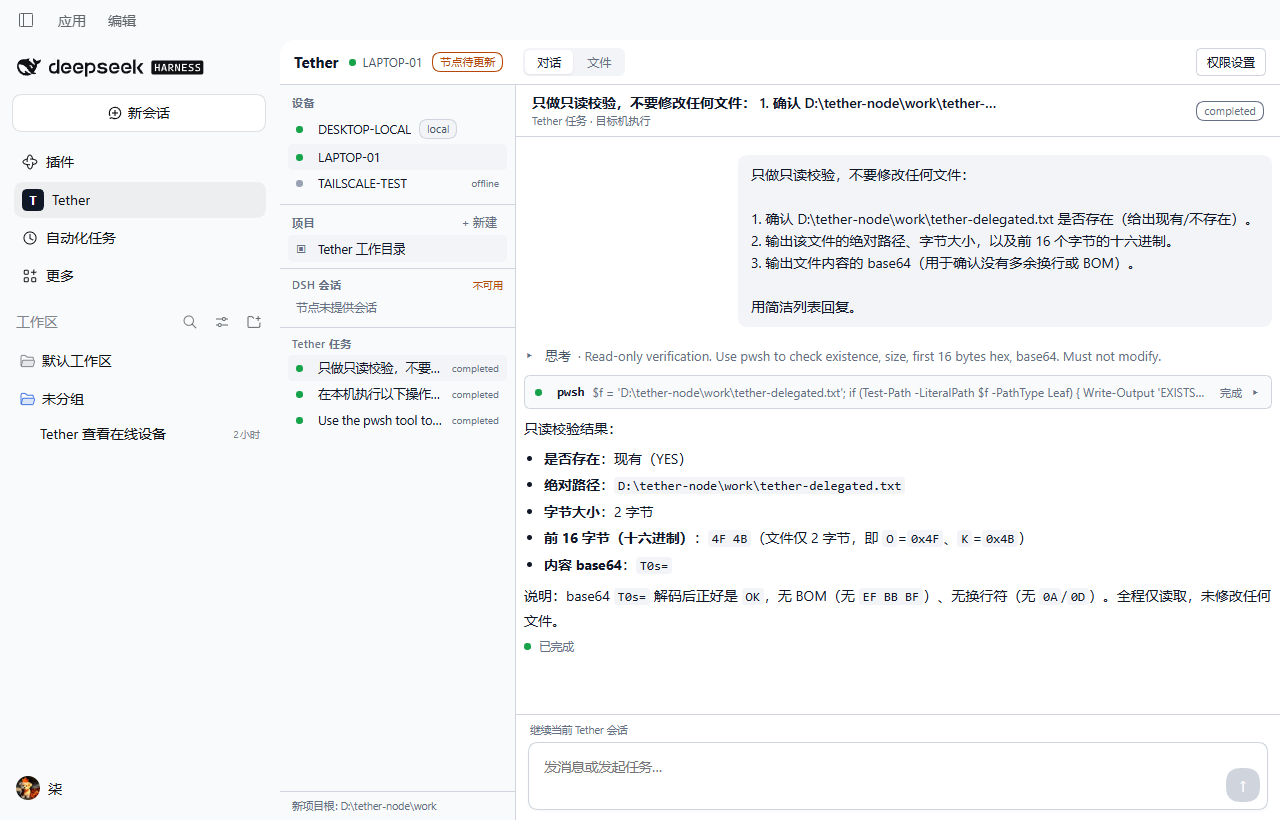
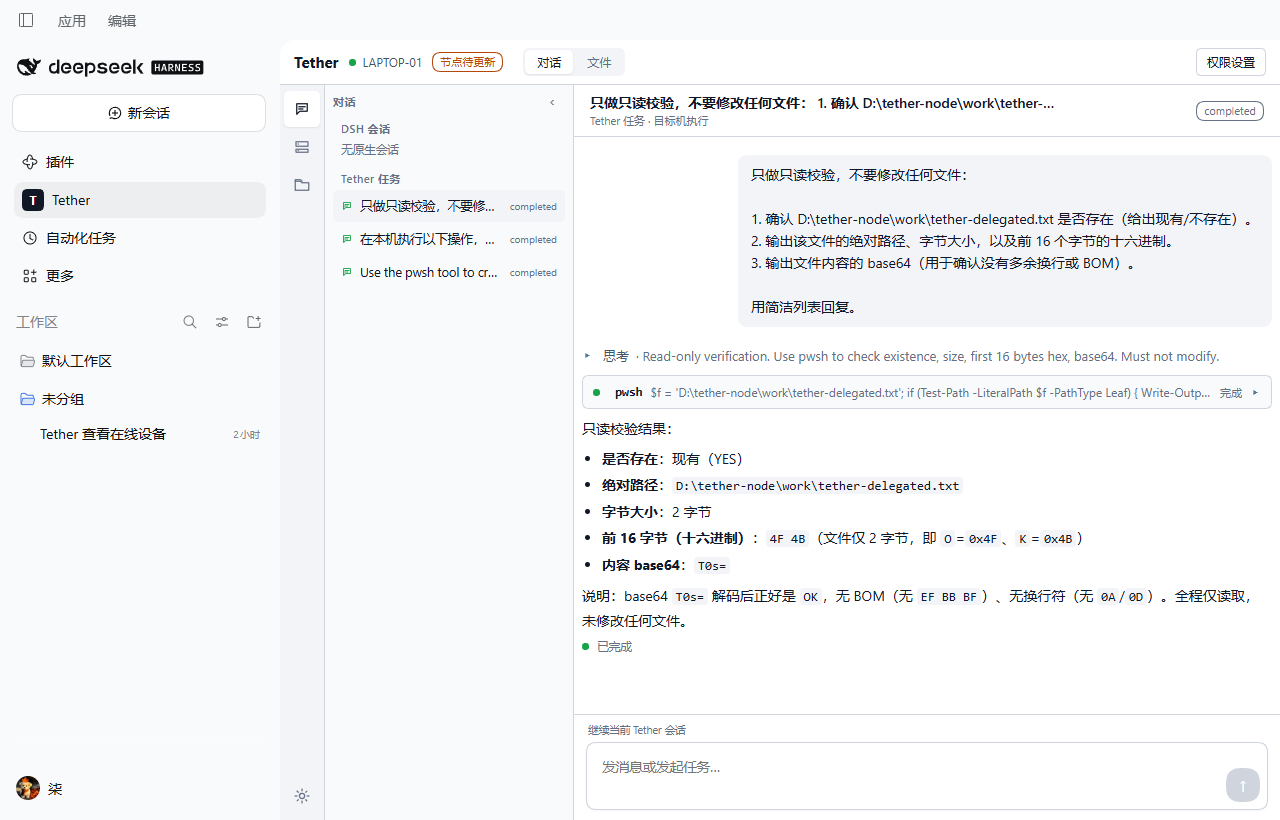
feat: VSCode-style activity bar and resizable sidebar
Split the plugin sidebar into a fixed activity bar with separate conversation,
device and project panels. The active icon and a header chevron collapse the
panel while the bar stays; panel and file-list dividers drag with a double-click
reset. Panel choice, collapse state and both widths persist in localStorage.
Unify sidebar row height, icon/text spacing, radii and group spacing, and hide
scrollbars until hover.

diff --git a/packages/dsh-plugin-tether-client/lib/client.js b/packages/dsh-plugin-tether-client/lib/client.js
@@ -237,7 +237,7 @@ window.__ModuleLoader__.load({
       if (!turns.length) {
         return h('div', { style: { display: 'grid', placeItems: 'center', flex: '1 1 auto', color: C.mute, fontSize: 13, padding: 30 } }, loading ? '加载中…' : emptyText)
       }
-      return h('div', { ref: box, style: { flex: '1 1 auto', overflow: 'auto', padding: '4px 0 24px' } },
+      return h('div', { ref: box, className: 'tether-scroll', style: { flex: '1 1 auto', overflow: 'auto', padding: '4px 0 24px' } },
         h('div', { style: { maxWidth: 780, margin: '0 auto', padding: '0 8px' } },
           turns.map((turn, i) => h(Turn, { key: i, turn, index: i, live }))
         )
@@ -263,6 +263,190 @@ window.__ModuleLoader__.load({
       )
     }
 
+
+    const SCROLL_CSS = `
+      .tether-scroll { scrollbar-width: thin; scrollbar-color: transparent transparent; overscroll-behavior: contain; }
+      .tether-scroll:hover { scrollbar-color: #cbd5e1 transparent; }
+      .tether-scroll::-webkit-scrollbar { width: 6px; height: 6px; }
+      .tether-scroll::-webkit-scrollbar-track { background: transparent; }
+      .tether-scroll::-webkit-scrollbar-thumb { background: transparent; border-radius: 3px; }
+      .tether-scroll:hover::-webkit-scrollbar-thumb { background: #cbd5e1; }
+      .tether-scroll::-webkit-scrollbar-corner { background: transparent; }
+    `
+
+    const UI = {
+      activity: 44,
+      row: 32,
+      pad: 8,
+      radius: 6,
+      radiusCard: 8,
+      icon: 12,
+      font: 12.5,
+      header: 11,
+      gapRow: 1,
+      gapGroup: 10,
+      minSide: 190,
+      maxSide: 380,
+      defaultSide: 248,
+      minFiles: 170,
+      maxFiles: 360,
+      defaultFiles: 240
+    }
+
+    function clamp(value, min, max) {
+      return Math.max(min, Math.min(max, value))
+    }
+
+    function usePersisted(key, initial) {
+      const [value, setValue] = React.useState(() => {
+        try {
+          const raw = window.localStorage.getItem(key)
+          return raw === null ? initial : JSON.parse(raw)
+        } catch (_) { return initial }
+      })
+      React.useEffect(() => {
+        try { window.localStorage.setItem(key, JSON.stringify(value)) } catch (_) { /* private mode */ }
+      }, [key, value])
+      return [value, setValue]
+    }
+
+    const GLYPHS = {
+      chat: ['M5 5h14v10H9l-4 4V5z', 'M8 9h8', 'M8 12h5'],
+      devices: ['M4 5h16v6H4z', 'M4 15h16v4H4z', 'M7 8h.01', 'M7 17h.01'],
+      projects: ['M3 7h7l2 2h9v10H3z', 'M3 7V5h7l2 2'],
+      settings: ['M12 15.5a3.5 3.5 0 100-7 3.5 3.5 0 000 7z', 'M12 3v2', 'M12 19v2', 'M3 12h2', 'M19 12h2', 'M5.6 5.6L7 7', 'M17 17l1.4 1.4', 'M18.4 5.6L17 7', 'M7 17l-1.4 1.4'],
+      plus: ['M12 5v14', 'M5 12h14'],
+      file: ['M6 3h8l4 4v14H6z', 'M14 3v4h4']
+    }
+
+    function Glyph({ name, size = 18, stroke = 1.7 }) {
+      return h('svg', {
+        width: size, height: size, viewBox: '0 0 24 24', fill: 'none', stroke: 'currentColor',
+        strokeWidth: stroke, strokeLinecap: 'round', strokeLinejoin: 'round', 'aria-hidden': true
+      }, (GLYPHS[name] || []).map((d, i) => h('path', { key: i, d })))
+    }
+
+    function ActivityBar({ active, collapsed, onSelect, onSettings, settingsOpen }) {
+      const items = [
+        { id: 'conversations', label: '对话', icon: 'chat' },
+        { id: 'devices', label: '设备', icon: 'devices' },
+        { id: 'projects', label: '项目', icon: 'projects' }
+      ]
+      const button = (id, label, icon, onClick, selected) => h('button', {
+        key: id, title: label, 'aria-label': label, onClick,
+        style: {
+          width: 36, height: 36, display: 'grid', placeItems: 'center', border: 0,
+          borderRadius: UI.radius, cursor: 'pointer', position: 'relative',
+          background: selected ? '#fff' : 'transparent', color: selected ? C.ink : C.mute,
+          boxShadow: selected ? '0 1px 2px rgba(16,24,40,0.08)' : 'none'
+        }
+      }, h(Glyph, { name: icon, size: 18 }))
+      return h('nav', {
+        'aria-label': 'Tether 面板',
+        style: { width: UI.activity, flex: '0 0 auto', borderRight: '1px solid ' + C.line, background: C.soft, display: 'flex', flexDirection: 'column', alignItems: 'center', padding: '6px 0', gap: 2 }
+      },
+        items.map((item) => button(item.id, item.label, item.icon, () => onSelect(item.id), active === item.id)),
+        h('div', { style: { marginTop: 'auto' } }, button('settings', '文件权限', 'settings', onSettings, settingsOpen))
+      )
+    }
+
+    function SidePanelHeader({ title, action, onCollapse }) {
+      return h('div', { style: { display: 'flex', alignItems: 'center', height: UI.row, flex: '0 0 auto', padding: '0 ' + UI.pad + 'px', gap: 2 } },
+        h('span', { style: { fontSize: UI.header, fontWeight: 600, color: C.mute, letterSpacing: 0.4 } }, title),
+        h('span', { style: { marginLeft: 'auto', display: 'flex', alignItems: 'center', gap: 2 } },
+          action,
+          h('button', {
+            title: '收起侧栏', 'aria-label': '收起侧栏', onClick: onCollapse,
+            style: { width: 26, height: 26, display: 'grid', placeItems: 'center', border: 0, borderRadius: UI.radius, background: 'transparent', color: C.mute, cursor: 'pointer', fontSize: 16, lineHeight: 1 }
+          }, '‹')
+        )
+      )
+    }
+
+    function SideRow({ selected, title, hint, icon, iconColor, onClick, right }) {
+      return h('div', {
+        role: 'button', tabIndex: 0, title, onClick,
+        onKeyDown: (ev) => { if (ev.key === 'Enter' || ev.key === ' ') { ev.preventDefault(); onClick() } },
+        style: {
+          display: 'flex', alignItems: 'center', gap: 7, minHeight: UI.row, boxSizing: 'border-box',
+          padding: '5px ' + UI.pad + 'px', borderRadius: UI.radius, cursor: 'pointer', minWidth: 0, width: '100%', boxSizing: 'border-box',
+          background: selected ? C.soft : 'transparent', fontSize: UI.font, color: C.ink
+        }
+      },
+        icon ? h('span', { style: { width: UI.icon, height: UI.icon, display: 'grid', placeItems: 'center', color: iconColor || C.mute, flex: '0 0 auto' } }, typeof icon === 'string' ? h(Glyph, { name: icon, size: UI.icon, stroke: 1.8 }) : icon) : null,
+        h('span', { style: { minWidth: 0, flex: '1 1 auto', overflow: 'hidden', textOverflow: 'ellipsis', whiteSpace: 'nowrap', lineHeight: '18px' } }, title),
+        right ? h('span', { style: { flex: '0 0 auto', fontSize: 10, color: C.mute, whiteSpace: 'nowrap' } }, right) : null,
+        hint ? h('span', { style: { flex: '0 0 auto', fontSize: 9.5, color: C.mute, border: '1px solid ' + C.line, borderRadius: 999, padding: '0 5px', lineHeight: '15px' } }, hint) : null
+      )
+    }
+
+    function SidePanel(props) {
+      const {
+        panel, width, hidden, onResizeStart, onResetWidth, onCollapse, devices, localDevice, deviceId, onSelectDevice,
+        projects, project, onSelectProject, onNewProject, newProjectDisabled,
+        nativeSessions, runs, sessionId, runId, onSelectSession, onSelectRun
+      } = props
+      const title = panel === 'devices' ? '设备' : (panel === 'projects' ? '项目' : '对话')
+      const action = panel === 'projects' ? h('button', {
+        title: newProjectDisabled ? '当前节点不支持新建项目' : '新建项目', 'aria-label': '新建项目',
+        onClick: onNewProject, disabled: newProjectDisabled,
+        style: { width: 26, height: 26, display: 'grid', placeItems: 'center', border: 0, borderRadius: UI.radius, background: 'transparent', color: newProjectDisabled ? C.line : C.mute, cursor: newProjectDisabled ? 'not-allowed' : 'pointer' }
+      }, h(Glyph, { name: 'plus', size: 14 })) : null
+
+      const section = (id, content) => h('div', {
+        className: 'tether-scroll',
+        style: { display: panel === id ? 'block' : 'none', flex: '1 1 auto', minHeight: 0, overflowY: 'auto', padding: '2px ' + UI.pad + 'px ' + UI.pad + 'px' }
+      }, content)
+
+      const deviceRows = devices.map((d) => h(SideRow, {
+        key: d.device_id, selected: d.device_id === deviceId, title: d.name || d.device_id,
+        onClick: () => onSelectDevice(d.device_id),
+        icon: 'devices', iconColor: d.online ? C.green : C.mute,
+        hint: d.device_id === localDevice ? 'local' : null,
+        right: d.online ? null : 'offline'
+      }))
+      const projectRows = ((projects && projects.workspaces) || []).map((w) => h(SideRow, {
+        key: w.path, selected: project && project.path === w.path, title: w.name, onClick: () => onSelectProject(w),
+        icon: w.kind === 'dsh' ? 'projects' : 'devices', iconColor: C.mute
+      }))
+      const nativeRows = nativeSessions.map((s) => h(SideRow, {
+        key: s.session_id, selected: s.session_id === sessionId, title: s.title || s.session_id,
+        onClick: () => onSelectSession(s.session_id),
+        icon: 'chat', iconColor: s.status === 'running' ? C.blue : C.green,
+        right: s.status === 'running' ? '运行中' : timeText((s.updated_at || 0) * 1000)
+      }))
+      const runRows = runs.map((r) => h(SideRow, {
+        key: r.run_id, selected: r.run_id === runId, title: shortText(r.prompt, 42),
+        onClick: () => onSelectRun(r.run_id),
+        icon: 'chat', iconColor: r.state === 'completed' ? C.green : (['failed', 'unknown'].includes(r.state) ? C.red : C.blue),
+        right: r.state
+      }))
+      const groupLabel = (text, first) => h('div', {
+        style: { fontSize: UI.header, fontWeight: 600, color: C.mute, letterSpacing: 0.4, margin: (first ? 2 : UI.gapGroup) + 'px ' + UI.pad + 'px 4px' }
+      }, text)
+
+      return h('aside', {
+        'aria-label': title,
+        style: { display: hidden ? 'none' : 'flex', width, flex: '0 0 auto', minHeight: 0, borderRight: '1px solid ' + C.line, background: C.panel, flexDirection: 'column', position: 'relative' }
+      },
+        h(SidePanelHeader, { title, action, onCollapse }),
+        h('div', { style: { flex: '1 1 auto', minHeight: 0, overflow: 'hidden', display: 'flex', flexDirection: 'column' } },
+          section('devices', h('div', { style: { display: 'grid', gap: UI.gapRow } }, deviceRows, !deviceRows.length ? h('div', { style: { color: C.mute, fontSize: 11.5, padding: '6px ' + UI.pad + 'px' } }, '暂无设备') : null)),
+          section('projects', h('div', { style: { display: 'grid', gap: UI.gapRow } }, projectRows, !projectRows.length ? h('div', { style: { color: C.mute, fontSize: 11.5, padding: '6px ' + UI.pad + 'px' } }, '暂无项目') : null)),
+          section('conversations', h('div', null,
+            groupLabel('DSH 会话', true),
+            h('div', { style: { display: 'grid', gap: UI.gapRow } }, nativeRows, !nativeRows.length ? h('div', { style: { color: C.mute, fontSize: 11.5, padding: '2px ' + UI.pad + 'px 4px' } }, '无原生会话') : null),
+            groupLabel('Tether 任务', false),
+            h('div', { style: { display: 'grid', gap: UI.gapRow } }, runRows, !runRows.length ? h('div', { style: { color: C.mute, fontSize: 11.5, padding: '2px ' + UI.pad + 'px 4px' } }, '无任务') : null)
+          ))
+        ),
+        h('div', {
+          onPointerDown: onResizeStart, onDoubleClick: onResetWidth, title: '拖动调整宽度，双击复位',
+          style: { position: 'absolute', top: 0, right: -3, width: 6, height: '100%', cursor: 'col-resize', zIndex: 2 }
+        })
+      )
+    }
+
     function App() {
       const [state, setState] = React.useState(null)
       const stateRef = React.useRef(null)
@@ -270,7 +454,11 @@ window.__ModuleLoader__.load({
       const [deviceId, setDeviceId] = React.useState('')
       const [projects, setProjects] = React.useState(null)
       const [project, setProject] = React.useState(null)
-      const [view, setView] = React.useState('chat')
+      const [view, setView] = usePersisted('tether.ui.view', 'chat')
+      const [activePanel, setActivePanel] = usePersisted('tether.ui.panel', 'conversations')
+      const [sidebarCollapsed, setSidebarCollapsed] = usePersisted('tether.ui.panelCollapsed', false)
+      const [sidebarWidth, setSidebarWidth] = usePersisted('tether.ui.panelWidth', UI.defaultSide)
+      const [fileListWidth, setFileListWidth] = usePersisted('tether.ui.fileListWidth', UI.defaultFiles)
       const [notice, setNotice] = React.useState('')
       const [busy, setBusy] = React.useState(false)
       const [native, setNative] = React.useState([])
@@ -321,6 +509,8 @@ window.__ModuleLoader__.load({
 
       const device = state && state.devices.find((d) => d.device_id === deviceId)
       const deviceOnline = !!(device && device.online)
+      const safeSidebarWidth = clamp(sidebarWidth, UI.minSide, UI.maxSide)
+      const safeFileListWidth = clamp(fileListWidth, UI.minFiles, UI.maxFiles)
 
       React.useEffect(() => {
         if (!deviceId) { setPolicy(null); return }
@@ -579,10 +769,37 @@ window.__ModuleLoader__.load({
         const cb = ask.onOk; setAsk(null); cb(value)
       }
 
+      const selectPanel = (id) => {
+        if (id === activePanel && !sidebarCollapsed) setSidebarCollapsed(true)
+        else { setActivePanel(id); setSidebarCollapsed(false) }
+      }
+
+      const dragWidth = (event, start, setter, min, max) => {
+        event.preventDefault()
+        const startX = event.clientX
+        const move = (ev) => setter(clamp(start + ev.clientX - startX, min, max))
+        const stop = () => {
+          window.removeEventListener('pointermove', move)
+          window.removeEventListener('pointerup', stop)
+          window.removeEventListener('pointercancel', stop)
+          document.body.style.cursor = ''
+          document.body.style.userSelect = ''
+        }
+        document.body.style.cursor = 'col-resize'
+        document.body.style.userSelect = 'none'
+        window.addEventListener('pointermove', move)
+        window.addEventListener('pointerup', stop)
+        window.addEventListener('pointercancel', stop)
+      }
+
+      const startSidebarResize = (event) => dragWidth(event, safeSidebarWidth, setSidebarWidth, UI.minSide, UI.maxSide)
+      const startFileResize = (event) => dragWidth(event, safeFileListWidth, setFileListWidth, UI.minFiles, UI.maxFiles)
+
       const rowStyle = (active) => ({ display: 'flex', alignItems: 'center', gap: 8, padding: '5px 8px', borderRadius: 6, cursor: 'pointer', background: active ? C.soft : 'transparent', fontSize: 12.5 })
       const modelText = sessionId && sessionData ? [sessionData.model, sessionData.agent_preset].filter(Boolean).join(' · ') : ''
 
       return h('div', { style: { position: 'relative', height: '100%', display: 'flex', flexDirection: 'column', background: C.bg, color: C.ink, fontSize: 13, overflow: 'hidden' } },
+        h('style', null, SCROLL_CSS),
         h('div', { style: { display: 'flex', alignItems: 'center', gap: 10, padding: '8px 14px', borderBottom: '1px solid ' + C.line, flex: '0 0 auto' } },
           h('strong', { style: { fontSize: 15 } }, 'Tether'),
           device ? h('span', { style: { display: 'flex', alignItems: 'center', fontSize: 12, color: C.sub } }, dot(device.online), device.name) : h('span', { style: { color: C.mute } }, 'no device'),
@@ -598,52 +815,36 @@ window.__ModuleLoader__.load({
         ),
         notice ? h('div', { style: { padding: '6px 14px', background: /^Saved |^Policy updated/.test(notice) ? '#ecfdf3' : '#fef3f2', color: /^Saved |^Policy updated/.test(notice) ? '#067647' : C.red, borderBottom: '1px solid ' + (/^Saved |^Policy updated/.test(notice) ? '#abefc6' : '#fecdca'), fontSize: 12 } }, notice) : null,
         h('div', { style: { display: 'flex', flex: '1 1 auto', minHeight: 0 } },
-          h('aside', { style: { width: 235, flex: '0 0 auto', borderRight: '1px solid ' + C.line, display: 'flex', flexDirection: 'column', minHeight: 0, background: C.panel } },
-            h('div', { style: { padding: '10px 12px 4px', fontSize: 11, fontWeight: 600, color: C.mute, letterSpacing: 0.4 } }, '设备'),
-            h('div', { style: { padding: '0 8px 8px', overflow: 'auto', maxHeight: 150 } },
-              ((state && state.devices) || []).map((d) => h('div', { key: d.device_id, onClick: () => setDeviceId(d.device_id), style: rowStyle(d.device_id === deviceId) },
-                dot(d.online), h('span', { style: { overflow: 'hidden', textOverflow: 'ellipsis', whiteSpace: 'nowrap' } }, d.name || d.device_id),
-                d.device_id === (state && state.local_device) ? pill('local') : null,
-                d.online ? null : h('span', { style: { marginLeft: 'auto', fontSize: 10, color: C.mute } }, 'offline')
-              ))
-            ),
-            h('div', { style: { padding: '8px 12px 4px', display: 'flex', alignItems: 'center', gap: 6, borderTop: '1px solid ' + C.line } },
-              h('span', { style: { fontSize: 11, fontWeight: 600, color: C.mute, letterSpacing: 0.4 } }, '项目'),
-              h('button', { onClick: newProject, disabled: projects && projects.synthetic, style: { marginLeft: 'auto', border: 0, background: 'transparent', color: projects && projects.synthetic ? C.mute : C.blue, cursor: projects && projects.synthetic ? 'not-allowed' : 'pointer', fontSize: 12 } }, '+ 新建')
-            ),
-            h('div', { style: { padding: '0 8px 6px', overflow: 'auto', maxHeight: 150 } },
-              ((projects && projects.workspaces) || []).map((w) => h('div', { key: w.path, onClick: () => { setProject(w); setView('chat') }, style: rowStyle(project && project.path === w.path) },
-                h('span', { style: { width: 14, color: C.mute, fontSize: 12 } }, w.kind === 'dsh' ? '◈' : '▣'),
-                h('span', { style: { overflow: 'hidden', textOverflow: 'ellipsis', whiteSpace: 'nowrap' } }, w.name)
-              )),
-              (!projects || !projects.workspaces.length) ? h('div', { style: { color: C.mute, fontSize: 12, padding: '6px 8px' } }, '暂无项目') : null
-            ),
-            h('div', { style: { borderTop: '1px solid ' + C.line, padding: '8px 12px 4px', display: 'flex', alignItems: 'center' } },
-              h('span', { style: { fontSize: 11, fontWeight: 600, color: C.mute, letterSpacing: 0.4 } }, 'DSH 会话'),
-              nativeError ? h('span', { style: { marginLeft: 'auto', fontSize: 10, color: C.amber } }, '不可用') : null
-            ),
-            h('div', { style: { padding: '0 8px 8px', overflow: 'auto', maxHeight: 190 } },
-              nativeForProject.map((s) => h('div', { key: s.session_id, onClick: () => { setSessionId(s.session_id); setRunId(''); setView('chat') }, style: rowStyle(s.session_id === sessionId) },
-                dot(false, s.status === 'running' ? C.blue : C.green),
-                h('span', { style: { overflow: 'hidden', textOverflow: 'ellipsis', whiteSpace: 'nowrap', flex: '1 1 auto' } }, s.title || s.session_id),
-                s.status === 'running' ? pill('running', C.blue) : null
-              )),
-              !nativeForProject.length ? h('div', { style: { color: C.mute, fontSize: 11.5, padding: '4px 8px' } }, nativeError ? '节点未提供会话' : '此项目暂无原生会话') : null
-            ),
-            h('div', { style: { borderTop: '1px solid ' + C.line, padding: '8px 12px 4px', display: 'flex', alignItems: 'center' } },
-              h('span', { style: { fontSize: 11, fontWeight: 600, color: C.mute, letterSpacing: 0.4 } }, 'Tether 任务')
-            ),
-            h('div', { style: { padding: '0 8px 10px', overflow: 'auto', flex: '1 1 auto' } },
-              runs.map((r) => h('div', { key: r.run_id, onClick: () => { setRunId(r.run_id); setSessionId(''); setView('chat') }, style: rowStyle(r.run_id === runId) },
-                dot(false, r.state === 'completed' ? C.green : (['failed', 'unknown'].includes(r.state) ? C.red : C.blue)),
-                h('span', { style: { overflow: 'hidden', textOverflow: 'ellipsis', whiteSpace: 'nowrap', flex: '1 1 auto' } }, shortText(r.prompt, 38)),
-                h('span', { style: { fontSize: 10, color: C.mute } }, r.state)
-              )),
-              !runs.length ? h('div', { style: { color: C.mute, fontSize: 11.5, padding: '4px 8px' } }, '还没有任务') : null
-            ),
-            h('div', { style: { borderTop: '1px solid ' + C.line, padding: '7px 12px', fontSize: 10.5, color: C.mute } },
-              projects ? ('新项目根: ' + projects.root) : ' ')
-          ),
+          h(ActivityBar, {
+            active: activePanel,
+            collapsed: sidebarCollapsed,
+            onSelect: selectPanel,
+            onSettings: openSettings,
+            settingsOpen: showSettings
+          }),
+          h(SidePanel, {
+            panel: activePanel,
+            width: safeSidebarWidth,
+            hidden: sidebarCollapsed,
+            onResizeStart: startSidebarResize,
+            onResetWidth: () => setSidebarWidth(UI.defaultSide),
+            onCollapse: () => setSidebarCollapsed(true),
+            devices: (state && state.devices) || [],
+            localDevice: state && state.local_device,
+            deviceId,
+            onSelectDevice: setDeviceId,
+            projects,
+            project,
+            onSelectProject: (w) => { setProject(w); setView('chat') },
+            onNewProject: newProject,
+            newProjectDisabled: !deviceOnline || !projects || !!projects.synthetic,
+            nativeSessions: nativeForProject,
+            runs,
+            sessionId,
+            runId,
+            onSelectSession: (id) => { setSessionId(id); setRunId(''); setView('chat') },
+            onSelectRun: (id) => { setRunId(id); setSessionId(''); setView('chat') }
+          }),
           h('main', { style: { flex: '1 1 auto', display: 'flex', flexDirection: 'column', minWidth: 0, minHeight: 0 } },
             view === 'chat' ? h('div', { style: { display: 'flex', flexDirection: 'column', flex: '1 1 auto', minHeight: 0 } },
               h('div', { style: { display: 'flex', alignItems: 'center', gap: 8, padding: '8px 16px', borderBottom: '1px solid ' + C.line, flex: '0 0 auto' } },
@@ -683,7 +884,7 @@ window.__ModuleLoader__.load({
                 )
               ),
               h('div', { style: { display: 'flex', flex: '1 1 auto', minHeight: 0 } },
-                h('div', { style: { width: 240, flex: '0 0 auto', borderRight: '1px solid ' + C.line, overflow: 'auto', background: C.bg } },
+                h('div', { className: 'tether-scroll', style: { width: safeFileListWidth, flex: '0 0 auto', borderRight: '1px solid ' + C.line, overflow: 'auto', background: C.bg } },
                   listing ? h('div', null,
                     listing.entries.map((entry) => h('div', { key: entry.path, onClick: () => setSelected(entry), onDoubleClick: () => openFile(entry), style: { ...rowStyle(selected && selected.path === entry.path), padding: '5px 10px', borderRadius: 0 } },
                       h('span', { style: { width: 16, color: C.mute, fontSize: 12 } }, entry.dir ? '▸' : '·'),
@@ -693,6 +894,11 @@ window.__ModuleLoader__.load({
                     !listing.entries.length ? h('div', { style: { padding: 16, color: C.mute, fontSize: 12 } }, '空目录') : null
                   ) : h('div', { style: { padding: 16, color: C.mute, fontSize: 12 } }, path ? (busy ? '加载中…' : '无法读取') : '选择项目')
                 ),
+                h('div', {
+                  onPointerDown: startFileResize, onDoubleClick: () => setFileListWidth(UI.defaultFiles),
+                  title: '拖动调整文件栏宽度，双击复位',
+                  style: { width: 5, flex: '0 0 auto', cursor: 'col-resize', background: 'transparent' }
+                }),
                 h('div', { style: { flex: '1 1 auto', minWidth: 0, display: 'flex', flexDirection: 'column' } },
                   file ? h('div', { style: { flex: '1 1 auto', minHeight: 0, display: 'flex', flexDirection: 'column' } },
                     h('div', { style: { display: 'flex', alignItems: 'center', gap: 8, padding: '6px 10px', borderBottom: '1px solid ' + C.line, flex: '0 0 auto' } },

diff --git a/REVIEWER_GUIDE.md b/REVIEWER_GUIDE.md
@@ -32,6 +32,7 @@ This file is for an AI or human reviewer who wants to decide whether the claims 
 | DeepSeek desktop Agent calls Tether | `docs/screenshots/deepseek-delegated.png`; run `r-56ca1f58b1a3` + verify run `r-8fa5928462a6`; file `D:\tether-node\work\tether-delegated.txt` |
 | Agent-to-Agent delegation | same screenshot; the desktop Agent called `mcp__tether__remote_task` for `LAPTOP-01`; target session `tether-s-d0332f33ad47` |
 | DSH plugin installs without touching other bundles | `~/.dsh/profiles/desktop/package.json` bundles list; `desktop/install-plugin.ps1`; screenshot `dsh-plugin-native-chat.png` |
+| Sidebar follows the VSCode contract | `ActivityBar`/`SidePanel` in `client.js`: fixed bar, three switchable panels, active-icon/chevron collapse, draggable panel and file-list boundaries, widths/panel in `localStorage` |
 | Plugin page is native, not iframe | `packages/dsh-plugin-tether-client/lib/client.js` uses `__ModuleLoader__` + `ctx.slots.inject('main' / 'sidebar.panellist')` |
 | Native DSH conversation is mirrored | `tether/node/dsh_sessions.py` parses `~/.dsh/sessions/**/session.v4.jsonl.zstd`; `tests/test_dsh_sessions.py`; screenshot `dsh-plugin-native-chat.png` |
 | Reasoning/tool events are rendered, not dumped | `build_transcript()` maps `reasoning`, `tool-call`, `tool/result`; the page shows collapsible think rows and tool cards |

diff --git a/README.md b/README.md
@@ -118,6 +118,12 @@ The sidebar entry opens a native client page (no iframe, no second web app):
 - **Permissions**: readonly / locked / full-disk, editable writable roots, and the
   last 80 audit entries.
 
+The left side uses a VSCode-style fixed activity bar: conversations, devices and
+projects are separate panels. Clicking the active icon or the chevron collapses
+the panel; the bar stays. The panel width and the file-list/editor divider are
+draggable, double-click resets, and both widths plus the active panel are stored
+in `localStorage`.
+
 The native reader only reads the DSH log; it never writes to an active session or
 competes for the Session writer. It defaults to `~/.dsh`; set
 `TETHER_NATIVE_DSH_HOME` if the target DSH home is elsewhere. A target without
